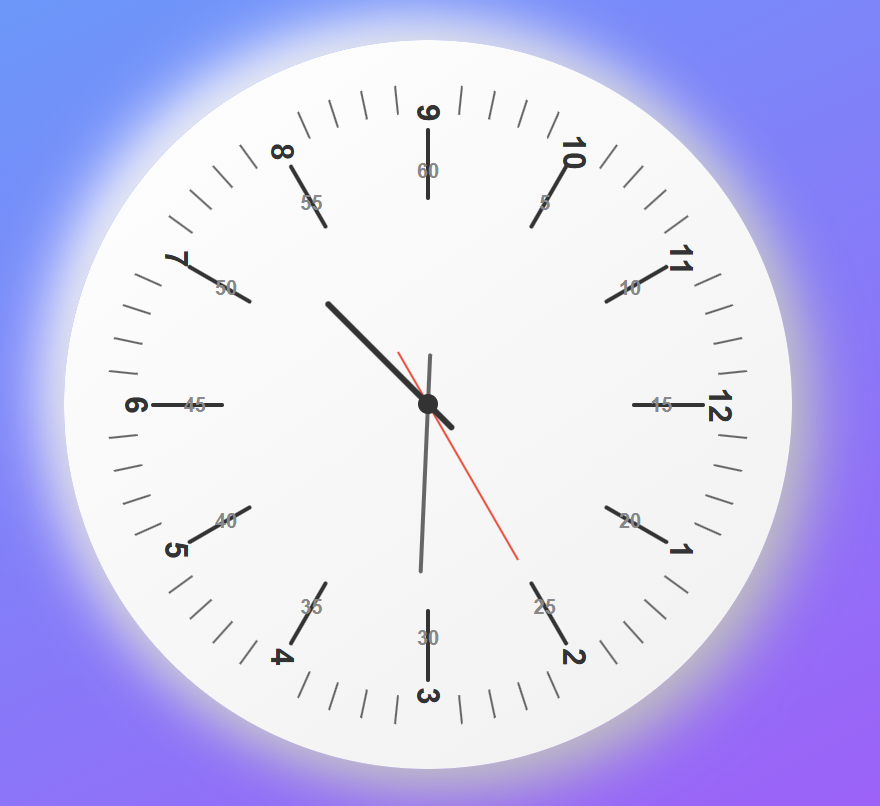
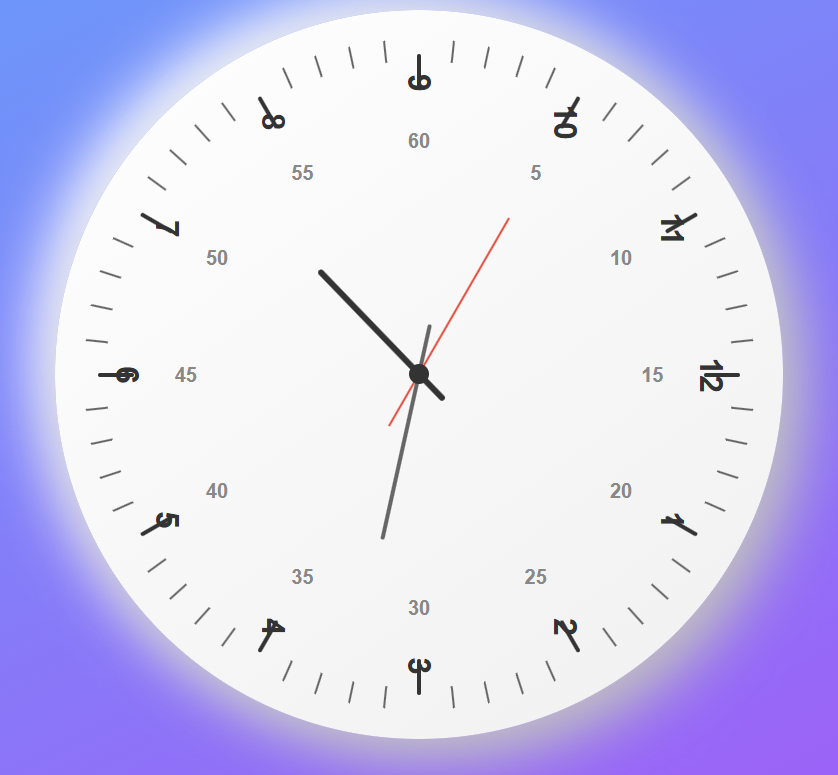
数字を内側に移動して目盛りとの干渉を解消
- 時間の数字: 40% → 36%に移動
- 分の数字: 32% → 28%に移動
- 目盛りと数字が重ならないよう調整

diff --git a/index.html b/index.html
@@ -214,7 +214,7 @@
                 const adjustedPosition = rotatedPosition === 0 ? 12 : rotatedPosition;
                 
                 const angle = (adjustedPosition * 30 - 90) * Math.PI / 180;
-                const radius = containerSize * 0.40; // 時計の40%の位置
+                const radius = containerSize * 0.36; // 時計の36%の位置（内側に移動）
                 const x = centerOffset + radius * Math.cos(angle);
                 const y = centerOffset + radius * Math.sin(angle);
                 
@@ -236,7 +236,7 @@
                 
                 // 通常の位置計算（分の数字）
                 const angle = (i * 30 - 90) * Math.PI / 180;
-                const radius = containerSize * 0.32; // 時計の32%の位置
+                const radius = containerSize * 0.28; // 時計の28%の位置（内側に移動）
                 const x = centerOffset + radius * Math.cos(angle);
                 const y = centerOffset + radius * Math.sin(angle);
                 
